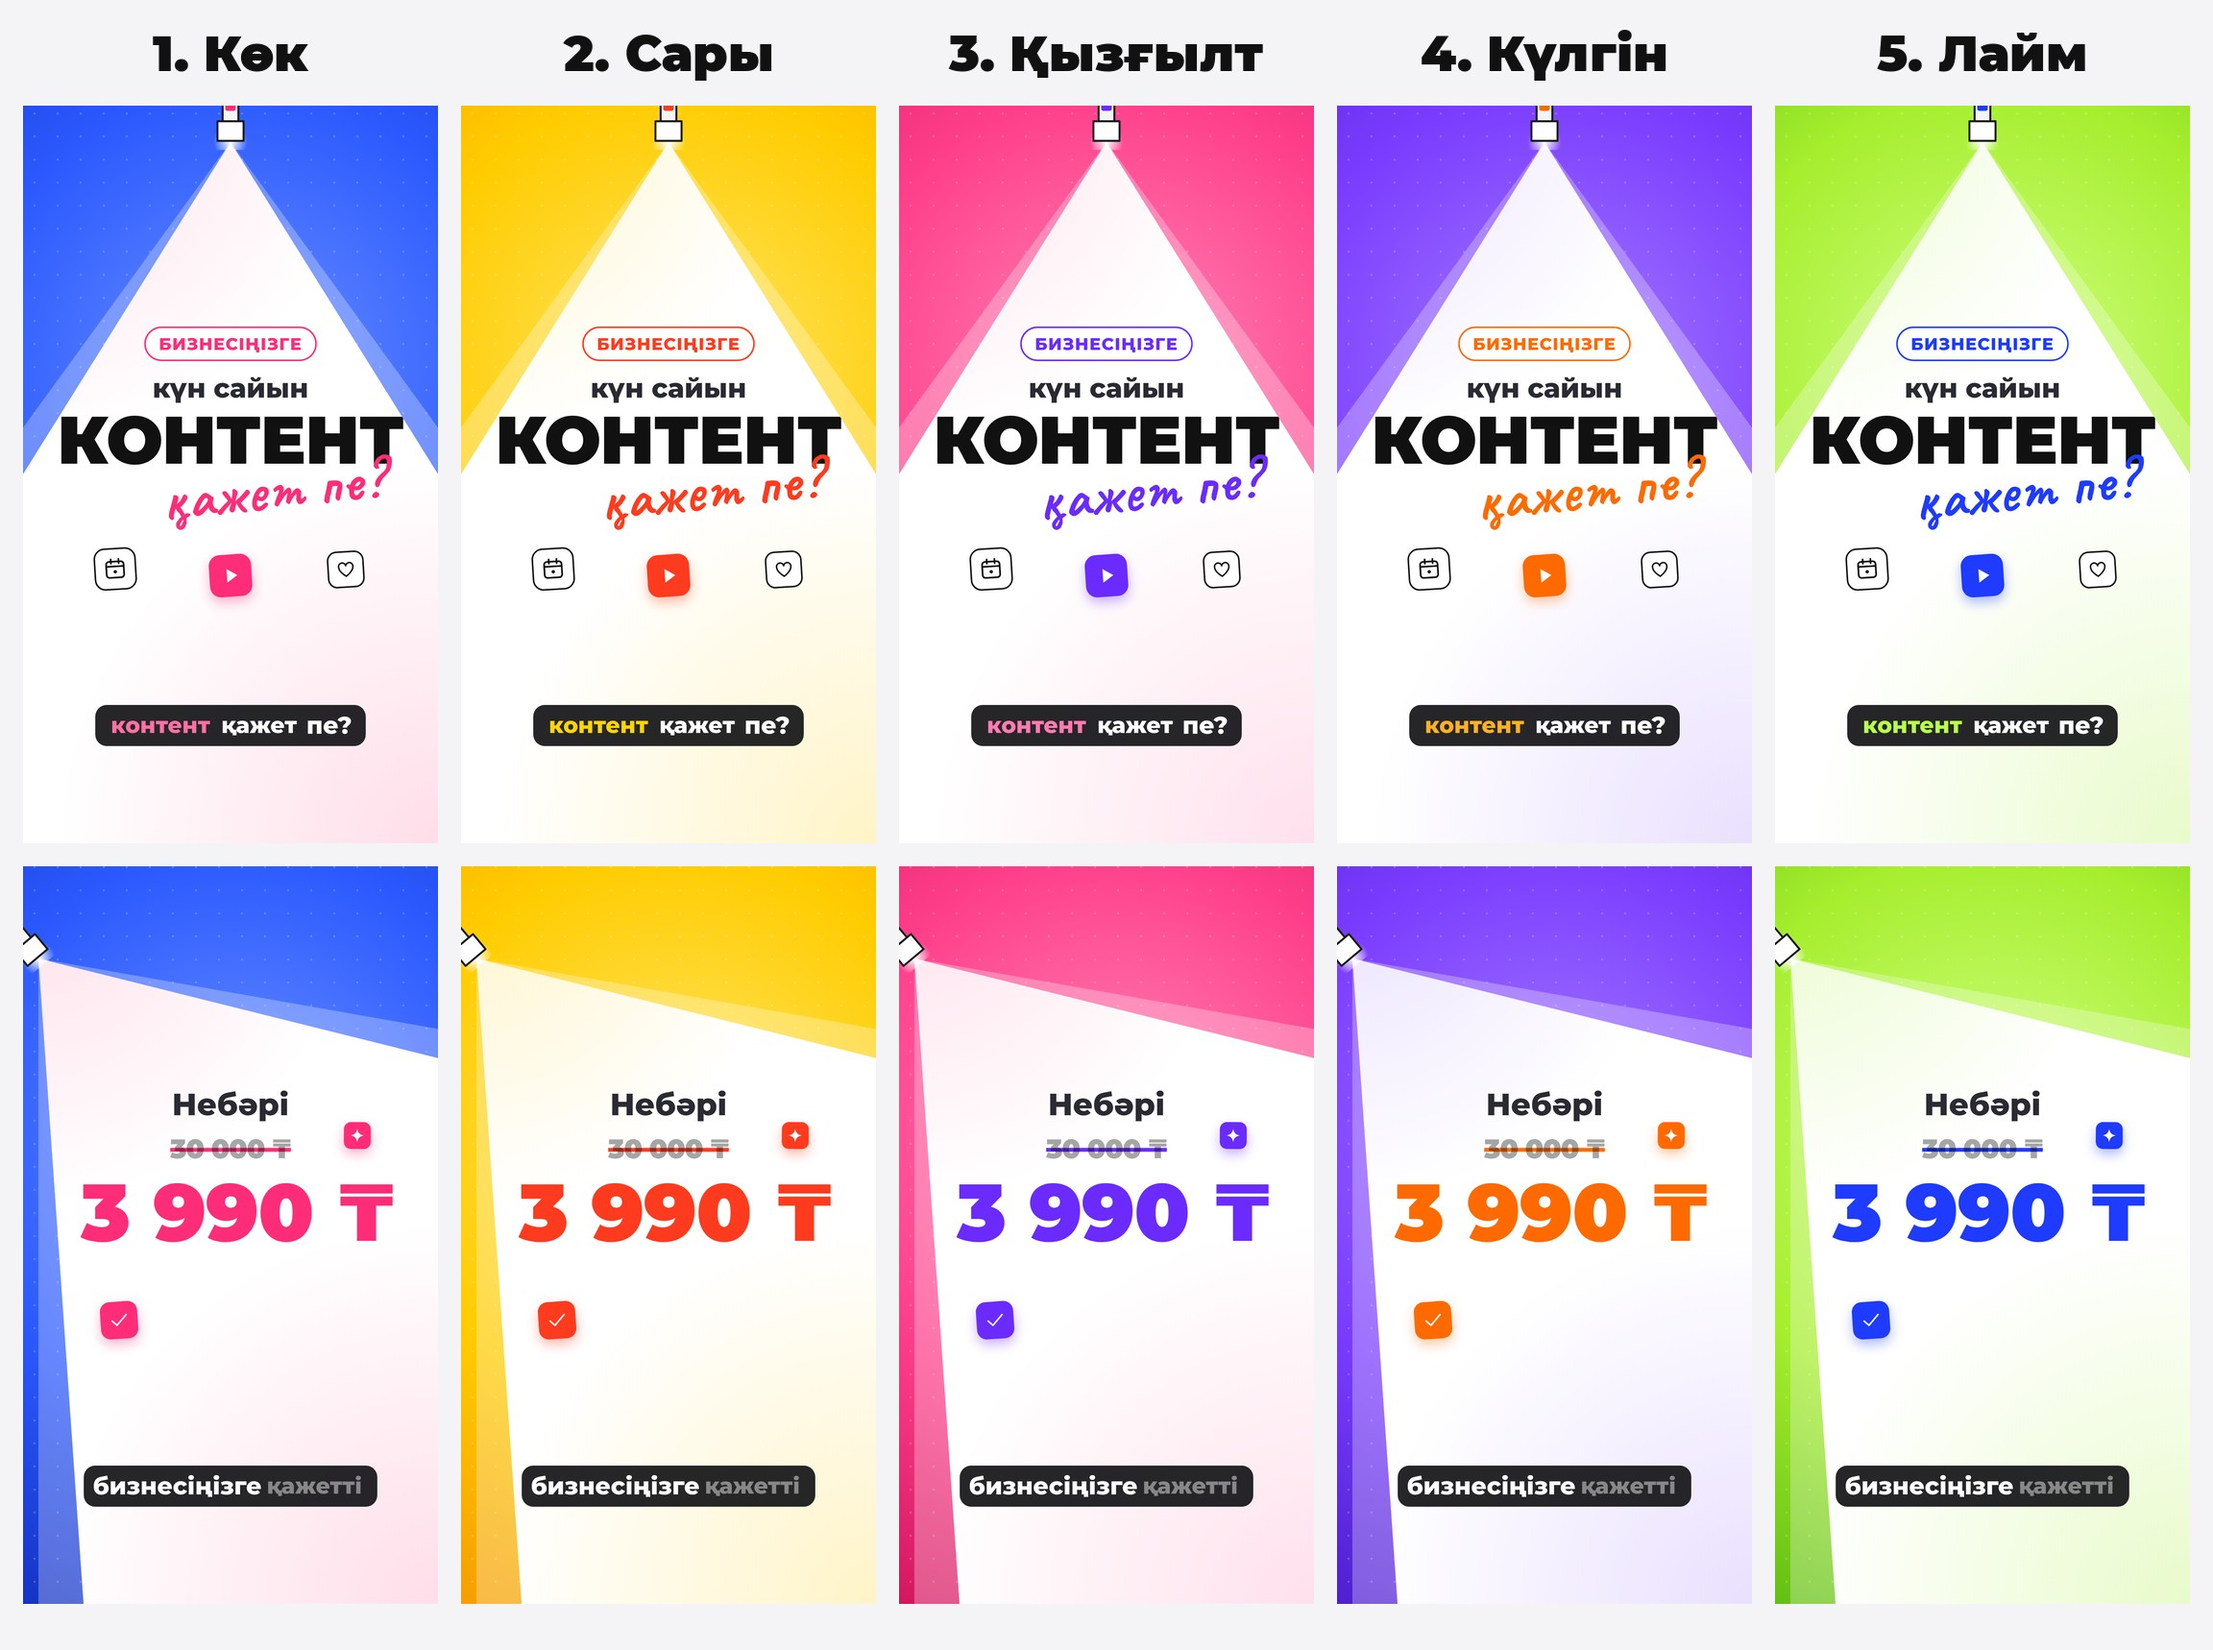
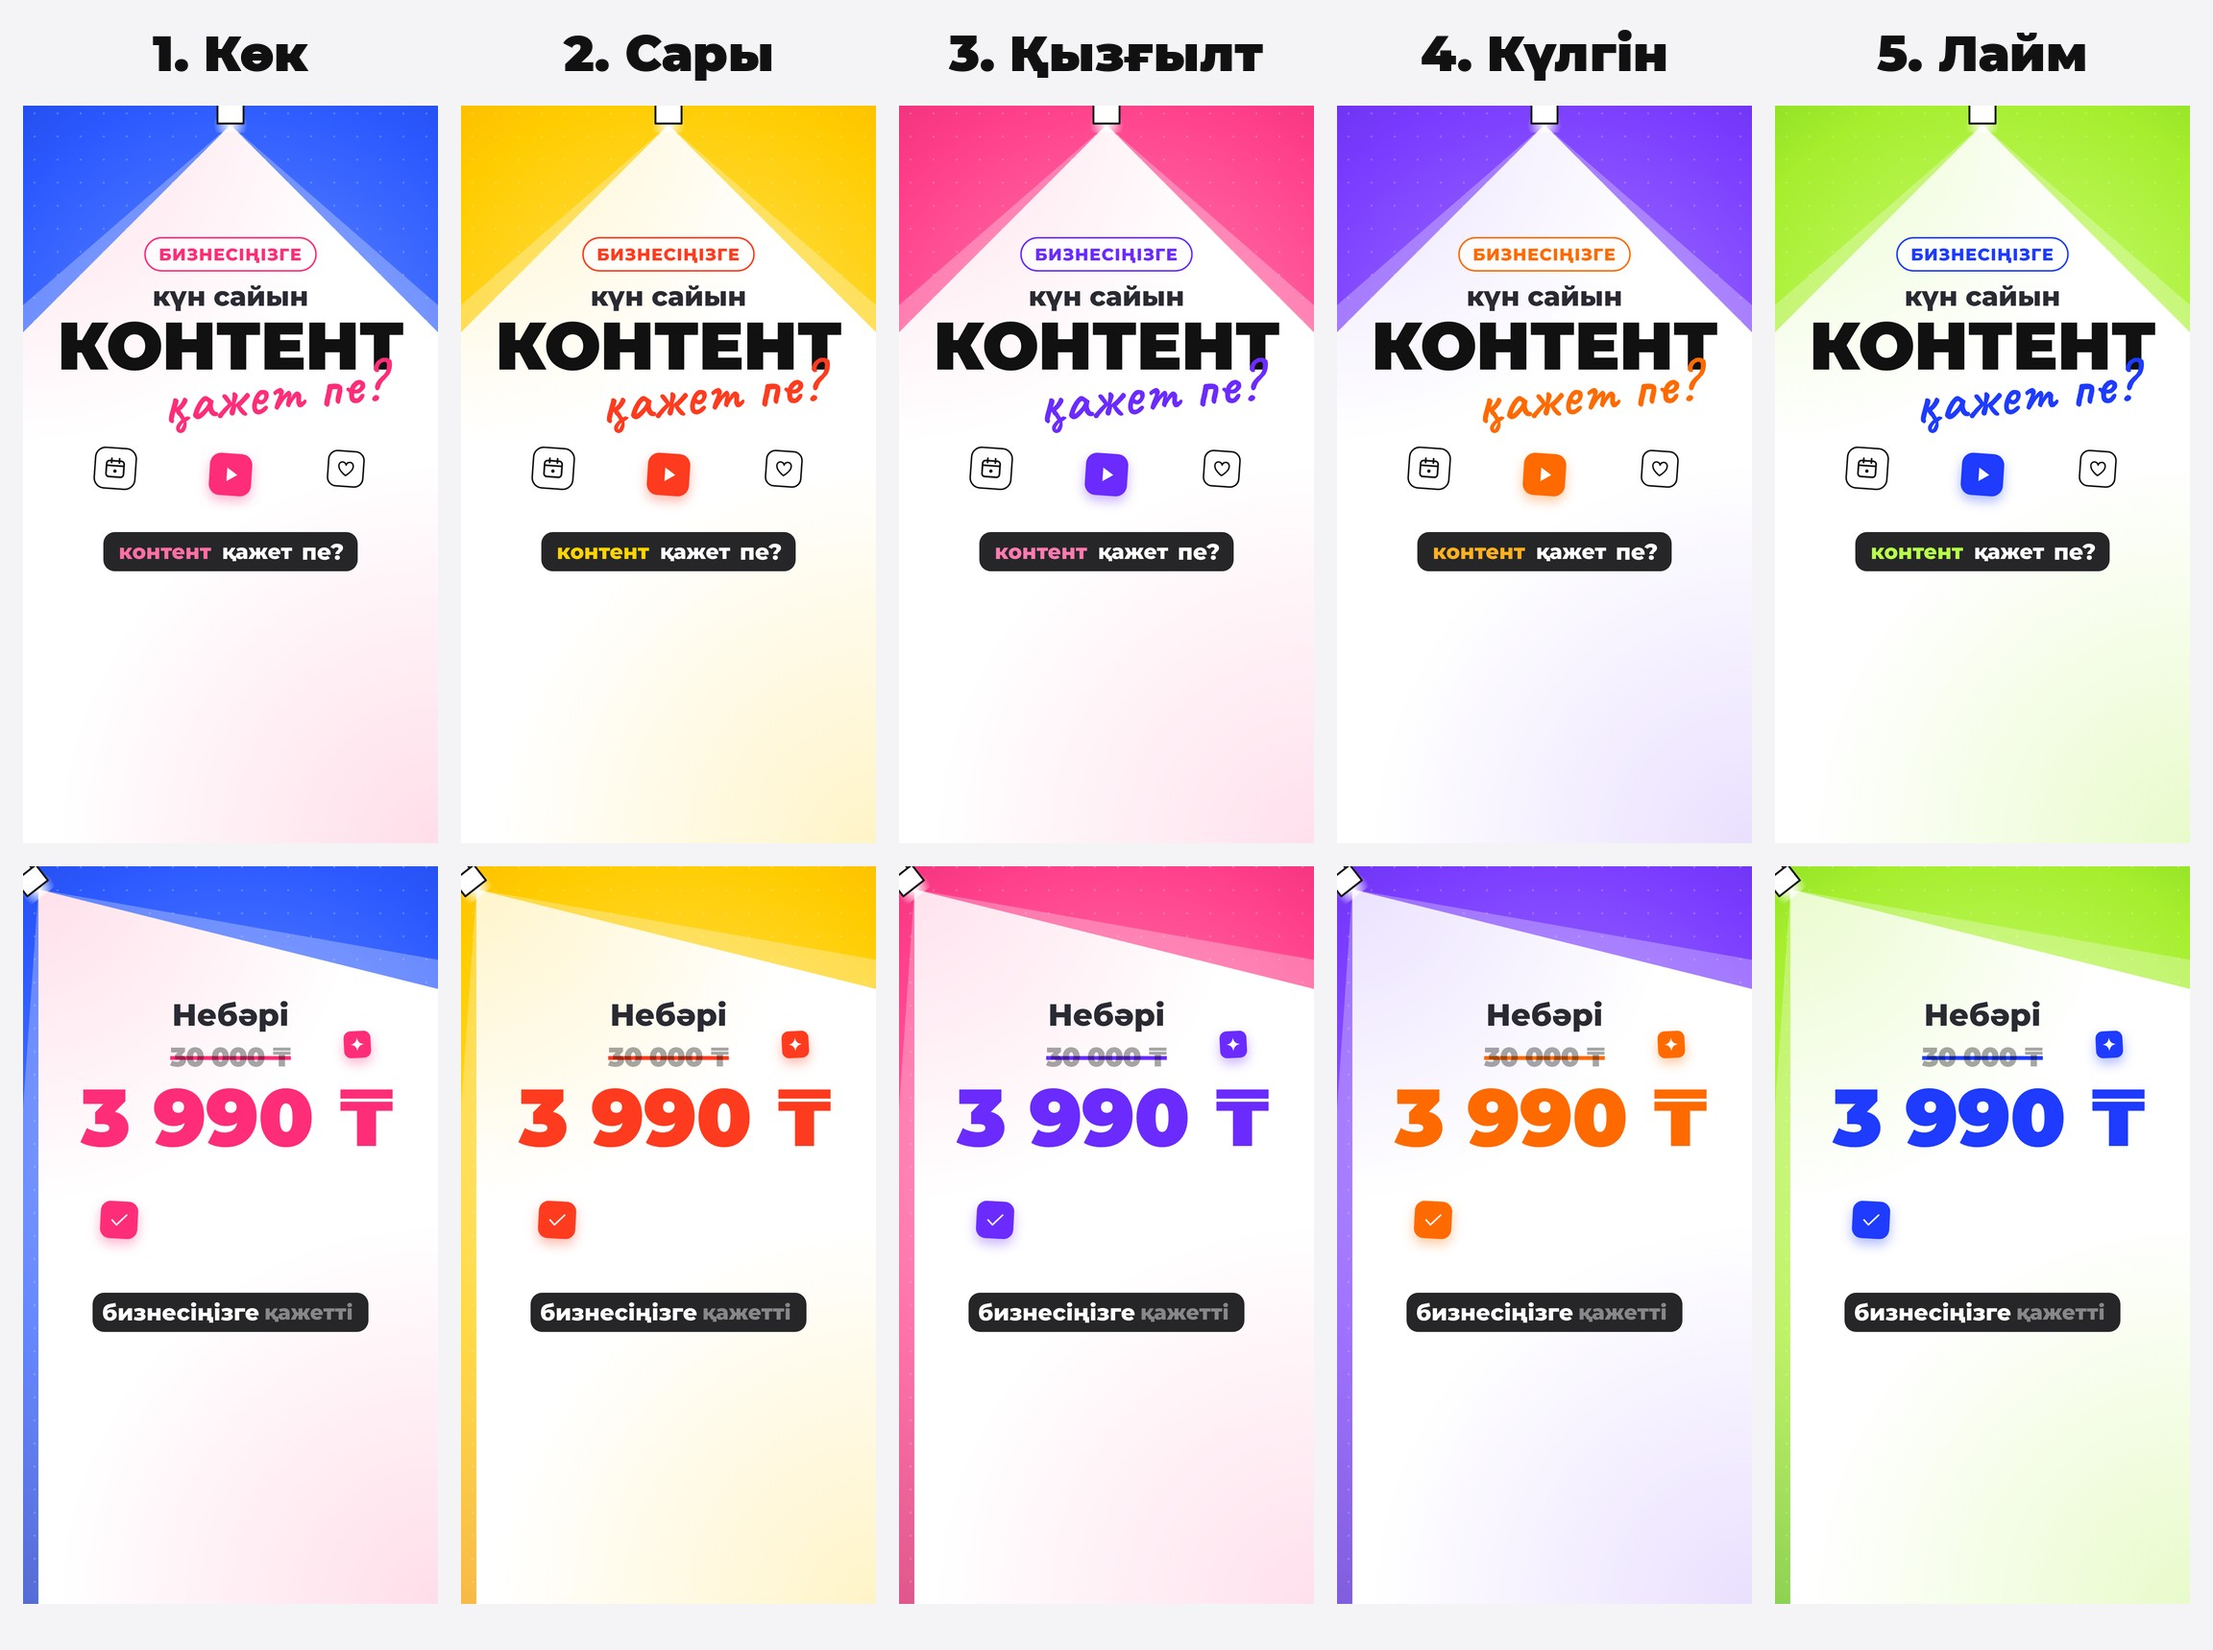
Сейф зона ережесі, раскадровка сейф зонада
Claude-Session: https://claude.ai/code/session_017A9pftJw4YTvEcTbfTtZEq

diff --git a/менің-талғамым.md b/менің-талғамым.md
@@ -5,3 +5,5 @@ Claude бұл файлды әр монтаждан бұрын оқиды. Бір
 - Тіл әрқашан қазақша, басқаша айтпасам.
 - Обложка әрқашан керек, заголовогы қазақша.
 - Рендерден кейін қазақша caption + 5–8 хэштег жаз.
+- Instagram сейф зона (Reels/таргет) міндетті: барлық жазу, субтитр, батырма 1080×1920 кадрда жоғарыдан 270px, төменнен 670px, бүйірден 65px ішінде тұрсын (x 65–1015, y 270–1250). Раскадровканы сейф зона рамкасымен тексер.
+- Байқаусызда жіберілген фото/файл болса — сұрап нақтыла, видеоға өзің қоспа.
